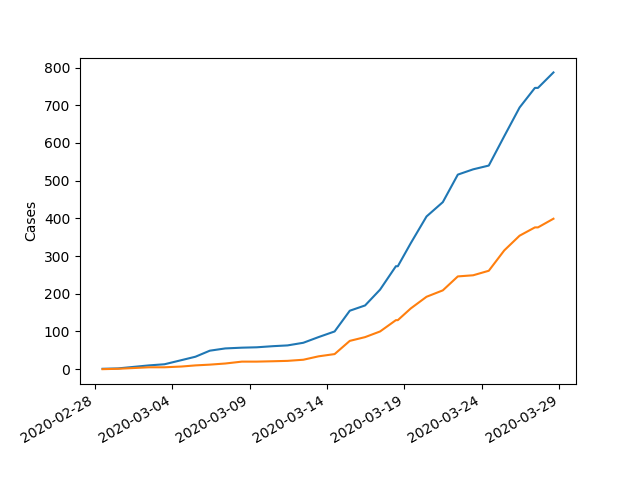
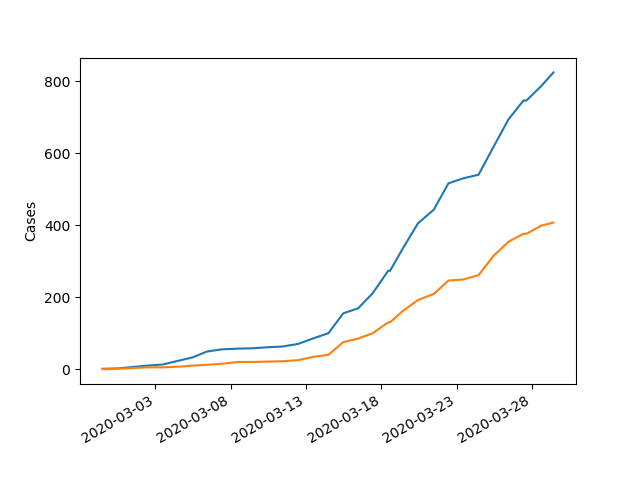
fix4

diff --git a/content/blog/Covid19/index.md b/content/blog/Covid19/index.md
@@ -1,6 +1,6 @@
 --- 
  title: Covid19 in Aachen (Stadt und Städteregion) 
- date: "2020-03-28T12:36:45.000Z" 
+ date: "2020-03-29T10:28:53.000Z" 
 --- 
 The city of Aachen publishes (more or less) daily updates about Covid19. It's in the form of a daily press release, so I decided to collect this data to make it more usable for further processing.
 
